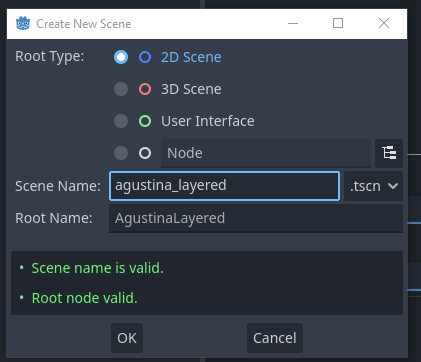
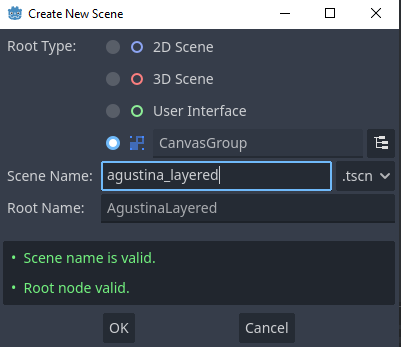
Change Recommendation to `CanvasGroup`.

Changed region(s): [[0.0, 0.0, 1.0, 1.0], [0.3292, 0.2017, 0.5387, 0.2594], [0.9576, 0.5476, 0.9875, 0.5764]]

diff --git a/documentation/layered-portrait.md b/documentation/layered-portrait.md
@@ -59,9 +59,14 @@ your project organized.
 Right-click on the folder and hover **Create New**, and click **Scene...** on the
 follow-up menu.
 
-Select the **Root Type**, we recommend using a **2D Scene**. The **Scene Name**
-is up to you, but once again, we recommend keeping your project organized with
-a consistent naming scheme.
+Select the **Root Type**, we recommend using the **Node** option, selecting the
+ `CanvasGroup` type.
+
+The `CanvasGroup` type allows Godot to treat all layers as a single image,
+preventing the layers from fading in and out separately.
+
+The **Scene Name** is up to you, but once again, we recommend keeping your
+project organized with a consistent naming scheme.
 
 ![Creating a new scene](media/layered_portrait/create_scene.png)
 
@@ -101,7 +106,9 @@ folder.
 ## 4.2. Adding the Layers
 
 Your layered portrait can have multiple layers. We recommend using `Node2D` as
-grouping layers, and `Sprite` as the actual layers.
+grouping layers, and `Sprite2D` as the actual layers.
+
+There is no limitation what Node Types you use for your layers.
 
 This will require some manual work, but it gives you control over how the
 layers are organized. The node paths will be used in the
